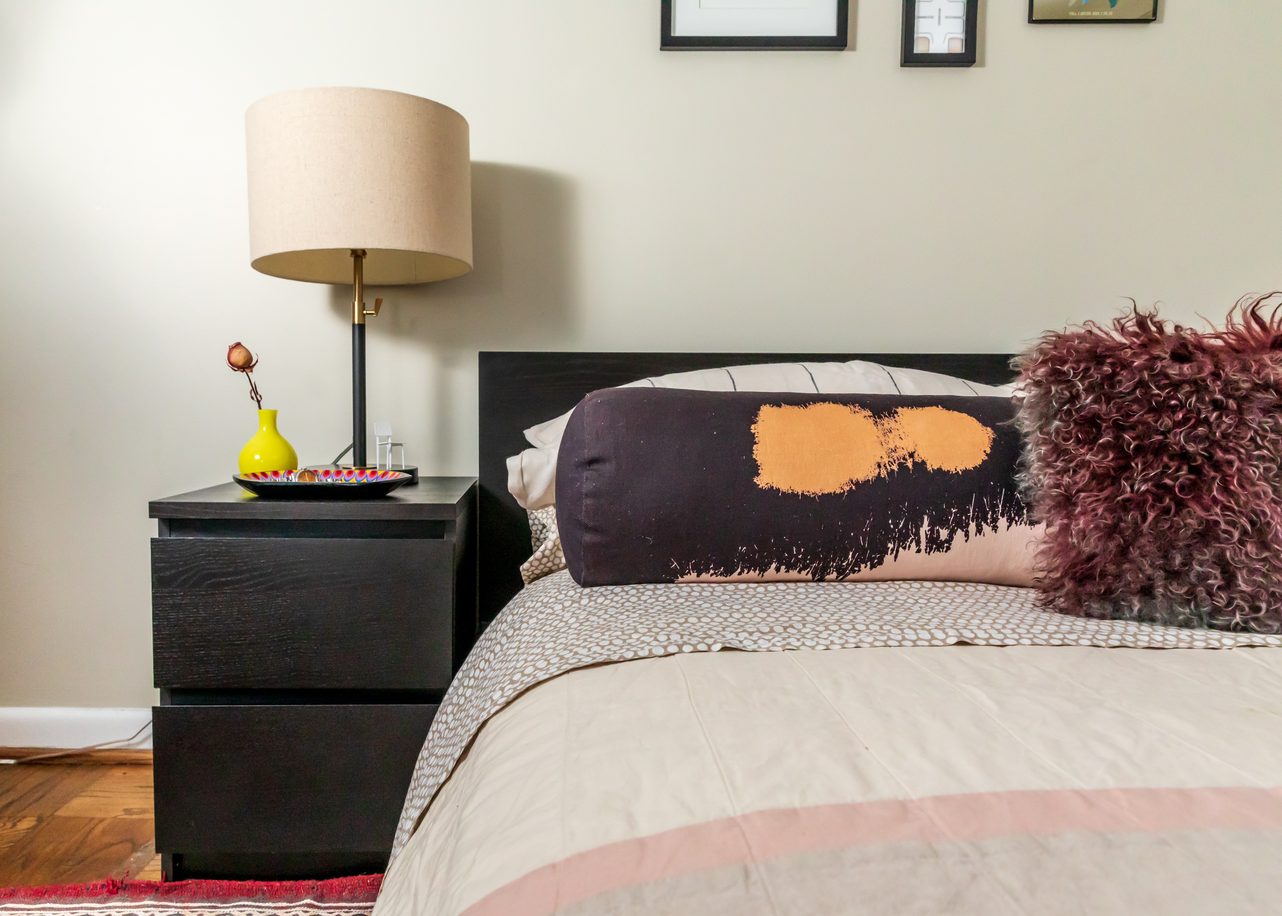
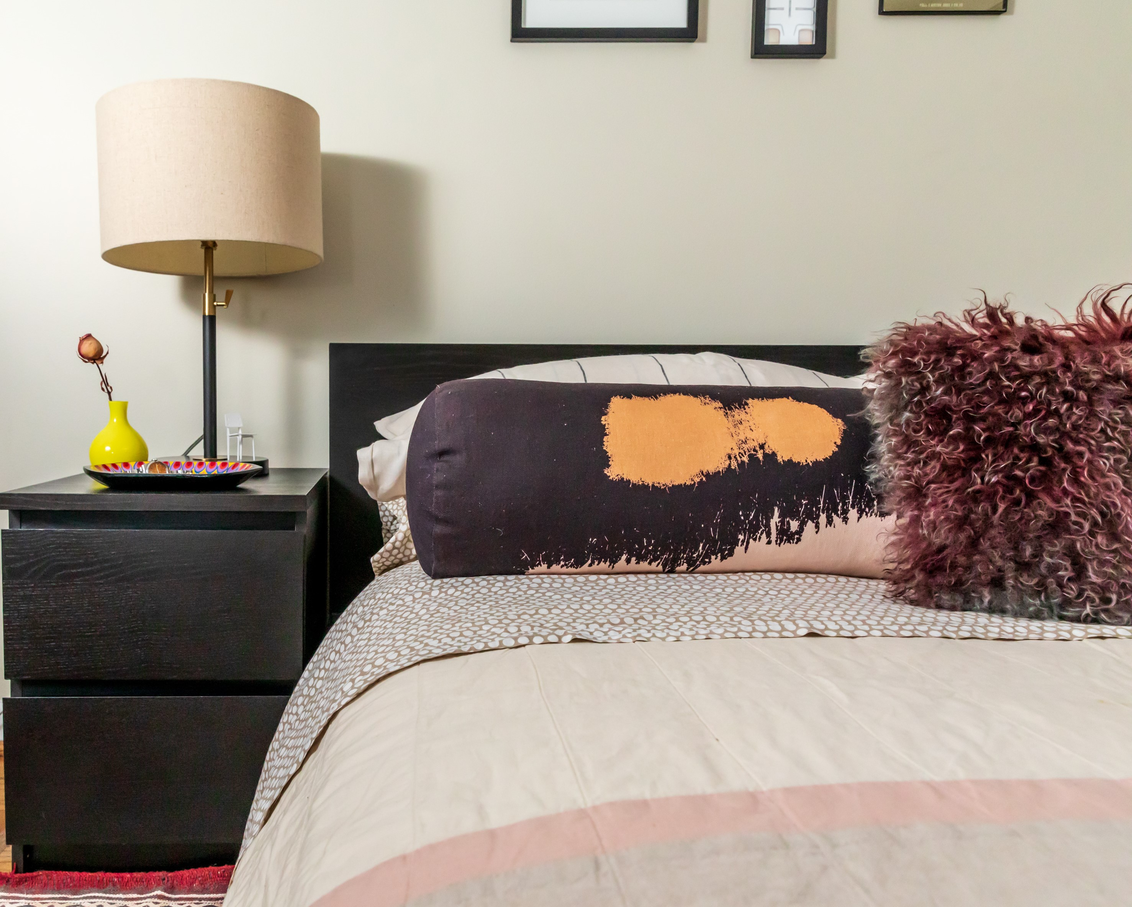
image lead updates, border-box of navs

diff --git a/index.html b/index.html
@@ -33,7 +33,7 @@
         <!-- LANDING AREA -->
 
         <div class="hero">
-            <img id="landing_image" src="images/big_painting.jpg" alt="describe the photo here"/>
+            <img id="landing_image" src="images/Ordway_Street/DA Bedside Shot.jpg" alt="describe the photo here"/>
             
             <img id="main_logo" src="images/ADS_Logo_full.jpg" alt="Ackerman Design Studio" />
             
@@ -94,7 +94,7 @@
         </div>
 
         <!-- ABOUT/BIO -->
-    <div id="body_container">
+    <div id="body_container_gradient">
         <div id="about" class="bordered_section">
             <h2 id="about_anchor">About</h2>
             <div class="row">
@@ -118,14 +118,14 @@
             <h2 id="gallery_anchor">Gallery</h2>
             <div class="row">
                 <div class="col-5 img-container">
-                    <img class="gal-img" src="images/bedroom.JPG">
+                    <img class="gal-img" src="images/Ordway_Street/DA _LR_Shot_at_Window_cropped.jpg">
                     <h3>Washington, DC Condo</h3>
                 </div>
                 <div class="col-2">
                     <!-- left empty for easy spacing -->
                 </div>
                 <div class="col-5 img-container">
-                    <img class="gal-img" src="images/chairs.JPG">
+                    <img class="gal-img" src="images/Wycoff/Wycoff_Bath_Shelf_Detail.jpg">
                     <h3>Florida Bungalow</h3>
                 </div>
             </div>

diff --git a/style.css b/style.css
@@ -171,6 +171,8 @@ NAV
     display: none;
     /* background-color: #b7aed0; */
     background: url(images/mobile_nav_bg.jpg);
+    -webkit-box-shadow: 0 .25rem .25rem rgba(0,0,0.3); 
+    box-shadow: 0 .25rem .25rem rgba(0,0,0,.3);
 }
 
 .mobile-nav-choices {
@@ -211,8 +213,8 @@ NAV
     margin-bottom: 100px;
     background-color: white;
     padding-top: 5px;
-    -webkit-box-shadow: 0px 2px 28px 5px rgba(255,255,255,0.53); 
-    box-shadow: 0px 2px 28px 5px rgba(255,255,255,0.53);
+    -webkit-box-shadow: 0 .25rem .25rem rgba(0,0,0.3); 
+    box-shadow: 0 .25rem .25rem rgba(0,0,0,.3);
 }
 
 .desktop-nav .row {
@@ -236,6 +238,7 @@ NAV
 }
 
 .nav_logo {
+    margin-top: 5vh;
     /* display: none; */
     height: 20vh;
     /* padding-bottom: 5px; */
@@ -297,7 +300,7 @@ CONTAINERS
 
 .gal-img {
     max-width: 400px;
-    max-height: 200px;
+    max-height: 300px;
     overflow: hidden;
 }
 
@@ -316,6 +319,12 @@ CONTAINERS
     display: flex;
     flex-direction: column;
 }
+
+.img-container img {
+    
+    border: 1px solid #423760;
+}
+
 
 .img-container h3 {
     font-size: 3rem;

diff --git a/app.js b/app.js
@@ -3,7 +3,7 @@ $(document).ready(function() {
   // hero image fade-in on load
   // //////////////////
   
-  $("#landing_image").hide().delay(400).fadeIn(1000, function () {
+  $("#landing_image").hide().delay(1000).fadeIn(1500, function () {
     console.log("hello from fade-in")
   });
   
